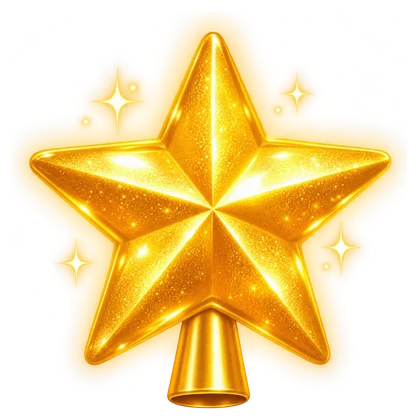
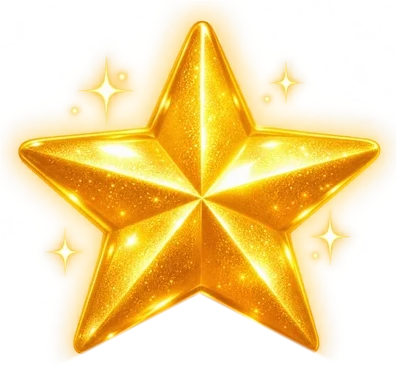
Адвент: общее окно подарков, подсказки на коробках, звезда без подставки, лес — одна луна и без сугробов
Claude-Session: https://claude.ai/code/session_019ncVXnayy72i3ajtvMMQrc

diff --git a/builds/advent/kabinet.html b/builds/advent/kabinet.html
@@ -347,13 +347,15 @@ img.pic{width:100%;height:100%;object-fit:contain;display:block;pointer-events:n
 .spk{position:absolute;color:#fff;font-size:11px;pointer-events:none;animation:wtwk 1.8s ease-in-out infinite;text-shadow:0 0 6px currentColor;font-style:normal}
 .t-l .spk{color:#FFE9A0}.t-e .spk{color:#F0D6FF}
 @keyframes wtwk{0%,100%{opacity:0;transform:scale(.4)}50%{opacity:1;transform:scale(1.15)}}
-.wtip{position:absolute;left:50%;bottom:calc(100% + 6px);transform:translateX(-50%);width:210px;background:#FFF8EC;color:var(--ink);border-radius:16px;padding:11px 13px;box-shadow:0 12px 30px rgba(0,0,0,.35);font-size:13px;line-height:1.4;z-index:40;text-align:left;visibility:hidden;opacity:0;transition:opacity .15s,visibility 0s .4s;cursor:default}
-.wtip::before{content:"";position:absolute;left:-10px;right:-10px;top:100%;height:18px}
+.wtip{position:absolute;left:50%;bottom:calc(100% + 6px);transform:translateX(-50%);width:210px;background:#FFF8EC;color:var(--ink);border-radius:16px;padding:11px 13px;box-shadow:0 12px 30px rgba(0,0,0,.35);font-size:13px;line-height:1.4;z-index:40;text-align:left;visibility:hidden;opacity:0;transition:opacity .12s,visibility 0s .12s;pointer-events:none}
+.wt.down .wtip{bottom:auto;top:calc(100% + 6px)}.wt.down .wtip::after{top:auto;bottom:100%;border-top-color:transparent;border-bottom-color:#FFF8EC}
+.wtip .hint2{display:block;margin-top:6px;font-weight:800;font-size:12px;color:#9C5E36}
 .wtip::after{content:"";position:absolute;left:50%;top:100%;transform:translateX(-50%);border:8px solid transparent;border-top-color:#FFF8EC}
 .wtip b{font-family:var(--ff-head);display:block;font-size:14px;margin-bottom:3px}
 .wtip .more{margin-top:8px;font-family:var(--ff-head);font-weight:800;font-size:12px;border:0;border-radius:10px;padding:7px 11px;color:#fff;cursor:pointer}
-.wt.m:hover .wtip,.wt.m.open .wtip,.wt.m:focus-within .wtip{visibility:visible;opacity:1;transition-delay:0s}
-.wt.m:hover,.wt.m.open,.wt.m:focus-within{z-index:30}
+.wt.m{pointer-events:none}.wt.m .bx{pointer-events:auto}
+.wt.m:hover .wtip,.wt.m:focus-visible .wtip{visibility:visible;opacity:1;transition:opacity .15s .3s,visibility 0s .3s}
+.wt.m:hover,.wt.m:focus-visible{z-index:30}
 .wt.edge-l .wtip{left:0;transform:none}.wt.edge-l .wtip::after{left:28px}
 .wt.edge-r .wtip{left:auto;right:0;transform:none}.wt.edge-r .wtip::after{left:auto;right:20px}
 .wtrees{display:flex;gap:6px;flex-wrap:wrap;align-items:center;padding:8px 12px;background:rgba(0,0,0,.22);flex:none}
@@ -418,6 +420,27 @@ img.pic{width:100%;height:100%;object-fit:contain;display:block;pointer-events:n
 @keyframes conf{0%{transform:translate(0,0) rotate(0);opacity:1}100%{transform:translate(var(--dx),var(--dy)) rotate(var(--rot));opacity:0}}
 .fx .flash{position:absolute;width:260px;height:260px;border-radius:50%;transform:translate(-50%,-50%) scale(.2);background:radial-gradient(circle,#fffbe0,rgba(255,220,120,.6) 35%,transparent 70%);animation:flash .7s ease-out forwards}
 @keyframes flash{to{transform:translate(-50%,-50%) scale(2.4);opacity:0}}
+@keyframes spin{to{transform:translate(-50%,-50%) rotate(360deg)}}
+.mcard.combo{max-width:min(760px,calc(100vw - 32px));background:radial-gradient(circle at 50% 20%,#3a2a7a,#1C2456);color:#fff}
+.combo .cv{align-self:flex-end;font-size:11px;color:#C9CFF0;display:flex;gap:4px;align-items:center}
+.combo .cv button{font:inherit;font-weight:800;border:0;border-radius:999px;padding:3px 9px;background:rgba(255,255,255,.14);color:#fff;cursor:pointer}.combo .cv button.on{background:#FFD45A;color:#4A2E00}
+.combo .cards{display:flex;gap:12px;justify-content:center;flex-wrap:wrap;width:100%}
+.combo .cc{position:relative;overflow:hidden;isolation:isolate;flex:1 1 180px;max-width:220px;border-radius:20px;padding:14px 10px 12px;display:flex;flex-direction:column;align-items:center;gap:5px;animation:pop .45s cubic-bezier(.2,1.5,.4,1) backwards}
+.combo .cc:nth-child(2){animation-delay:.15s}.combo .cc:nth-child(3){animation-delay:.3s}.combo .cc:nth-child(4){animation-delay:.45s}
+.combo .cc .ray{position:absolute;left:50%;top:40%;width:280px;height:280px;transform:translate(-50%,-50%);border-radius:50%;z-index:-1;background:repeating-conic-gradient(rgba(255,255,255,.16) 0 10deg,transparent 10deg 22deg);-webkit-mask:radial-gradient(circle,#000 20%,transparent 65%);mask:radial-gradient(circle,#000 20%,transparent 65%);animation:spin 10s linear infinite}
+.combo .cc .tag{font-family:var(--ff-head);font-weight:900;font-size:10px;letter-spacing:.05em;text-transform:uppercase;border-radius:999px;padding:3px 9px;background:rgba(255,255,255,.85);color:#1C2456}
+.combo .ci{width:110px;height:110px;object-fit:contain;filter:drop-shadow(0 6px 6px rgba(0,0,0,.35))}.combo .ci.emo{display:grid;place-items:center;font-size:70px}
+.combo .cc b{font-family:var(--ff-head);font-size:16px}.combo .cc small{font-size:12px;opacity:.85}
+.combo .csay{border:0;border-radius:999px;background:rgba(255,255,255,.18);color:#fff;padding:3px 10px;cursor:pointer;font-size:14px}
+.combo .k-w{background:linear-gradient(180deg,#2E7D5B,#1B4F3A)}.combo .k-g{background:linear-gradient(180deg,#C8364D,#7E1B2E)}.combo .k-c{background:linear-gradient(180deg,#C9921E,#7A5200)}
+.combo .k-r{background:linear-gradient(180deg,#2E6FD6,#173D85)}.combo .k-e{background:linear-gradient(180deg,#8E3FD6,#4A1A85)}.combo .k-l{background:linear-gradient(180deg,#E39A10,#8A5A00)}
+.combo .cbig img{width:150px;filter:drop-shadow(0 8px 8px rgba(0,0,0,.35))}
+.combo .chips{display:flex;gap:10px;flex-wrap:wrap;justify-content:center}
+.combo .chip{display:flex;align-items:center;gap:10px;border-radius:16px;padding:7px 14px 7px 7px;text-align:left;animation:pop .45s cubic-bezier(.2,1.5,.4,1) .2s backwards}
+.combo .chip img{width:52px;height:52px;object-fit:contain}.combo .chip .ce{font-size:36px;width:52px;text-align:center}
+.combo .chip b{display:block;font-family:var(--ff-head);font-size:14px}.combo .chip small{font-size:11px;opacity:.85}
+.combo .promo{font-family:var(--ff-head);font-weight:900;background:#fff;color:#C8364D;border-radius:8px;padding:2px 8px;margin-top:2px;display:inline-block}
+@media (max-width:600px){.combo .cc{flex-basis:100%;max-width:none;flex-direction:row;text-align:left;gap:10px}.combo .ci{width:64px;height:64px}.combo .ci.emo{font-size:44px}}
 .mcard.rev{background:radial-gradient(circle at 50% 30%,#3a2a7a,#1C2456);color:#fff;overflow:hidden;position:relative;isolation:isolate}
 .mcard.rev .eb{color:#FFE9A0}.mcard.rev .trn,.mcard.rev .hint{color:#D8DCFF}
 .mcard.rev .art{position:relative}
@@ -803,10 +826,8 @@ function openDay(d,b){
     save();renderNav();renderAdvent();showCoins(bonus);
     var eb=it.tree?'Новая ёлка!':d===N||nOpened()===N?'Последнее окошко! С Новым годом!':ev.newCol?'Новый цвет — в подарок!':'Новое украшение!';
     var hint=it.tree?'Ёлка поменялась — посмотри!':F[it.f].top?'Это украшение для макушки ёлки — поставь его наверх.':F[it.f].wide?'Сразу три куска: маленький, средний и большой — все на полке мастерской.':'Оно уже на полке мастерской 🧝 — тяни его на ёлку.';
-    var q=[function(){return wordModal(it,{eb:eb,hint:hint,fin:nOpened()===N});}];
-    if(ev.gift)q.push(function(){return giftModal(ev.gift);});
-    ev.rew.forEach(function(rw){q.push(function(){return rewardModal(rw);});});
-    chain(q);
+    if(ev.gift||ev.rew.length){comboModal(it,ev,{eb:eb,hint:hint,fin:nOpened()===N});return;}
+    wordModal(it,{eb:eb,hint:hint,fin:nOpened()===N});
   },350);
 }
 function giftModal(g){sfx('gift');
@@ -819,6 +840,28 @@ function rewardModal(rw){
   sfx('coin');var m2=modal('<div class="mcard rev '+(rw.cert?'l':'g')+'"><span class="rib">Шкала подарков</span><div class="art" style="display:grid;place-items:center;font-size:90px">'+(rw.cert?'🎓':'🪙')+'</div><h3 style="color:#fff">'+rw.n+' открытых окошек!</h3>'+
     (rw.cert?'<div class="trn">Грамота «Знаток новогодних слов» — все 31 слово твои!</div>':'')+'<div class="word" style="color:#FFE9A0">+🪙 '+rw.a+'</div><div class="btns"><button type="button" class="btn pink" data-close>Забрать</button></div></div>');
   confetti(window.innerWidth/2,window.innerHeight/2,rw.cert?'l':'g');return m2;}
+/* всё, что выпало в одном окошке, — одним окном, карточками рядом (Анна 24.11.2026, «207 вариант 1») */
+var COMBO_V='1';
+function comboModal(it,ev,o){
+  var items=[{k:'w',tag:'Окошко',img:dayImg(it),t:dayEn(it),s:dayRu(it),say:dayEn(it)}];
+  if(ev.gift)items.push({k:'g',tag:'Подарок от школы',img:'img/gift3.webp',t:ev.gift.ic+' '+ev.gift.t,s:ev.gift.s,promo:ev.gift.promo});
+  ev.rew.forEach(function(rw){if(rw.f){var c=rar(rw.f);items.push({k:c,tag:'Шкала: '+rw.n+' окошек · '+{r:'редкая',e:'эпическая',l:'легендарная'}[c],img:src(rw.f,''),t:F[rw.f].w,s:F[rw.f].t,say:F[rw.f].w});}
+    else items.push({k:'c',tag:'Шкала: '+rw.n+' окошек',emo:rw.cert?'🎓':'🪙',t:'+🪙 '+rw.a,s:rw.cert?'Грамота «Знаток новогодних слов»':'монетки в копилку'});});
+  var m=modal('<div class="mcard combo"></div>');var box=m.querySelector('.combo');
+  function draw(){
+    var sw='';
+    var h=sw+'<div class="eb" style="color:#FFE9A0">'+(o.eb||'')+'</div>';
+    if(COMBO_V==='1'){h+='<div class="cards">'+items.map(function(x){return '<div class="cc k-'+x.k+'"><span class="ray"></span><span class="tag">'+esc(x.tag)+'</span>'+(x.emo?'<div class="ci emo">'+x.emo+'</div>':'<img class="ci" src="'+x.img+'" alt="">')+'<b>'+esc(x.t)+'</b><small>'+esc(x.s)+'</small>'+(x.say?'<button type="button" class="csay" data-w="'+esc(x.say)+'">🔊</button>':'')+(x.promo?'<span class="promo">'+x.promo+'</span>':'')+'</div>';}).join('')+'</div>';}
+    else{var a=items[0];h+='<div class="cbig"><img src="'+a.img+'" alt=""><div class="word" style="color:#fff">'+esc(a.t)+' <button type="button" class="csay" data-w="'+esc(a.say)+'">🔊</button></div><div class="trn">'+esc(a.s)+'</div></div><div class="hint">А ещё сегодня:</div><div class="chips">'+
+      items.slice(1).map(function(x){return '<div class="chip k-'+x.k+'">'+(x.emo?'<span class="ce">'+x.emo+'</span>':'<img src="'+x.img+'" alt="">')+'<span><b>'+esc(x.t)+'</b><small>'+esc(x.tag)+'</small>'+(x.promo?'<span class="promo">'+x.promo+'</span>':'')+'</span></div>';}).join('')+'</div>';}
+    h+='<div class="hint">'+(ev.gift?'Подарок от школы лежит в блоке «Мои подарки» под календарём. ':'')+'Игрушки уже на полке мастерской.</div><div class="btns"><button type="button" class="btn pink" id="toTree">Ура! К ёлке 🎄</button><button type="button" class="btn ghost" data-close>Закрыть</button></div>';
+    box.innerHTML=h;
+    box.querySelectorAll('.cv button').forEach(function(b){b.onclick=function(){COMBO_V=b.dataset.v;draw();};});
+    box.querySelectorAll('.csay').forEach(function(b){b.onclick=function(){say(b.dataset.w);};});
+    box.querySelector('#toTree').onclick=function(){m.remove();S.page='advent';S.tab='tree';save();render();};}
+  draw();sfx(ev.gift?'gift':'rare');if(o.fin)say(dayEn(it),'Merry Christmas!');else say(dayEn(it));
+  setTimeout(function(){confetti(window.innerWidth/2,window.innerHeight/2,'g');},300);
+  if(S.page==='advent'&&S.tab==='tree')renderTree();return m;}
 /* карточка слова: послушать, повторить за голосом и послушать себя рядом с образцом */
 function wordModal(it,o){
   var m=modal('<div class="mcard" role="dialog">'+(o.eb?'<div class="eb">'+o.eb+'</div>':'')+'<div class="art">'+pic(dayImg(it))+'</div>'+
@@ -870,7 +913,7 @@ function spk(c){if(c!=='e'&&c!=='l')return '';var s='',P=[[6,16],[80,8],[86,62],
 function shelfToy(f){
   var c=rar(f),hf=hasFam(f);
   if(hf){var col=pickOf(f);return '<div class="wt slot'+(c!=='c'?' t-'+c:'')+(openFam===f?' s-open':'')+'" data-f="'+f+'" tabindex="0" role="button" title="'+esc(en(f,col))+'" aria-label="'+esc(en(f,col))+'">'+spk(c)+pic(src(f,col))+'<span class="ok">'+placedOf(f)+'/'+cntOf(f)+'</span></div>';}
-  return '<div class="wt m'+(c!=='c'?' t-'+c:'')+'" tabindex="0" data-lock="'+c+'">'+spk(c)+'<div class="wtip"><b>'+TIPS[c][0]+'</b>'+TIPS[c][1]+'<br><button class="more" type="button" data-c="'+c+'" style="background:'+TIPS[c][2]+'">Подробнее об условиях</button></div>'+pic('img/box_'+{c:'common',r:'rare',e:'epic',l:'legend'}[c]+'.webp').replace('class="pic"','class="pic bx"')+'</div>';
+  return '<div class="wt m'+(c!=='c'?' t-'+c:'')+'" tabindex="0" data-lock="'+c+'">'+spk(c)+'<div class="wtip"><b>'+TIPS[c][0]+'</b>'+TIPS[c][1]+'<span class="hint2">👆 Нажми на коробку — подробнее</span></div>'+pic('img/box_'+{c:'common',r:'rare',e:'epic',l:'legend'}[c]+'.webp').replace('class="pic"','class="pic bx"')+'</div>';
 }
 function shelf(cls,title,list,inCase){var own=list.filter(hasFam).length;
   var row='<div class="wrow">'+list.map(shelfToy).join('')+'</div>';
@@ -905,7 +948,9 @@ function renderTree(){
       tap:function(){openPanel(f);say(en(f,pickOf(f)));},drop:function(x,y){placeAt(f,pickOf(f),x,y);}});
     sl.onkeydown=function(e){if(e.key==='Enter'||e.key===' '){e.preventDefault();openPanel(f);}};});
   $$('.wt.m').forEach(function(t){var r=t.getBoundingClientRect(),R=$('room').getBoundingClientRect();if(r.left-R.left<110)t.classList.add('edge-l');else if(R.right-r.right<110)t.classList.add('edge-r');
-    t.onclick=function(e){if(e.target.closest('.more'))return;$$('.wt.m.open').forEach(function(x){if(x!==t)x.classList.remove('open');});t.classList.toggle('open');};});
+    t.onclick=function(){moreModal(t.dataset.lock);};
+    /* у верхнего края полок подсказка открывается вниз, иначе её обрезает */
+    t.addEventListener('pointerenter',function(){var sc=t.parentNode;while(sc&&sc!==document.body&&getComputedStyle(sc).overflowY==='visible')sc=sc.parentNode;var top=sc&&sc.getBoundingClientRect?sc.getBoundingClientRect().top:0;t.classList.toggle('down',t.getBoundingClientRect().top-top<120);},true);t.onkeydown=function(e){if(e.key==='Enter'||e.key===' '){e.preventDefault();moreModal(t.dataset.lock);}};});
   $$('.wt .more').forEach(function(b){b.onclick=function(e){e.stopPropagation();moreModal(b.dataset.c);};});
   if(openFam)openPanel(openFam,true);
   drawSel();

diff --git a/builds/advent/les.html b/builds/advent/les.html
@@ -20,7 +20,7 @@ body{background:#0B1236;color:#fff;font-family:var(--fb);margin:0;overflow:hidde
 .scroller{position:absolute;inset:0;overflow-x:auto;overflow-y:hidden;scrollbar-width:none;cursor:grab;touch-action:pan-x}
 .scroller::-webkit-scrollbar{display:none}
 .scroller.drag{cursor:grabbing}
-.world{position:relative;height:100%;background:url(img/les_tile.webp) left bottom/auto 100% repeat-x}
+.world{position:relative;height:100%;background:url(img/les_tile_nomoon.webp) left bottom/auto 100% repeat-x}
 .t{position:absolute;bottom:13%;transform:translateX(-50%);display:flex;flex-direction:column;align-items:center;cursor:pointer;z-index:3}
 .t .art{position:relative;transition:transform .25s;transform-origin:50% 100%}
 .t:hover .art{transform:scale(1.05)}
@@ -38,7 +38,7 @@ body{background:#0B1236;color:#fff;font-family:var(--fb);margin:0;overflow:hidde
 .t.me .art::before{content:"";position:absolute;inset:-14% -26% -4%;background:radial-gradient(ellipse,rgba(255,212,90,.55),transparent 65%);animation:mg 1.8s ease-in-out infinite;z-index:-1}
 @keyframes mg{50%{opacity:.45}}
 .t.me .nm{background:var(--gold);color:#4A2E00}
-.t.me .you{position:absolute;bottom:101%;font-family:var(--fh);font-weight:900;font-size:12px;background:#fff;color:#4A2E00;border-radius:999px;padding:3px 10px;white-space:nowrap;box-shadow:0 3px 8px rgba(0,0,0,.3)}
+.t.me .you{position:absolute;bottom:110%;z-index:5;font-family:var(--fh);font-weight:900;font-size:12px;background:#fff;color:#4A2E00;border-radius:999px;padding:3px 10px;white-space:nowrap;box-shadow:0 3px 8px rgba(0,0,0,.3)}
 .t.hl .art{animation:hl .55s ease-in-out 4}
 @keyframes hl{50%{transform:translateY(-14px) scale(1.06)}}
 .main{position:absolute;bottom:12%;transform:translateX(-50%);pointer-events:none;z-index:2}
@@ -48,6 +48,7 @@ body{background:#0B1236;color:#fff;font-family:var(--fb);margin:0;overflow:hidde
 .sign .p{width:8px;height:50px;background:#6A3A1F;margin:0 auto}
 .anim{position:absolute;pointer-events:none;width:0;height:0}
 .anim img{position:absolute;bottom:0;left:0;transform:translateX(-50%);display:block;filter:drop-shadow(0 6px 4px rgba(0,0,0,.25))}
+#moon{position:absolute;right:9%;top:5%;width:min(120px,14vw);z-index:1;pointer-events:none}
 canvas.snow{position:absolute;inset:0;pointer-events:none;z-index:10}
 .nav{position:absolute;top:50%;transform:translateY(-50%);z-index:20;width:46px;height:46px;border-radius:50%;border:0;background:rgba(10,16,52,.6);color:#fff;font-size:20px;cursor:pointer;backdrop-filter:blur(4px)}
 .nav.l{left:max(12px,env(safe-area-inset-left,0px))}.nav.r{right:max(12px,env(safe-area-inset-right,0px))}
@@ -71,6 +72,7 @@ canvas.snow{position:absolute;inset:0;pointer-events:none;z-index:10}
 <div class="hdr"><button class="back" type="button">← К моей ёлке</button><h1>Лес ёлок WowSpeak</h1><span class="cnt">🎄 <span id="n"></span> ёлок в лесу</span>
 <span class="find"><input id="q" placeholder="Найти ёлку друга" aria-label="Найти ёлку по имени"></span><button class="mine" type="button" id="toMe">⭐ Моя ёлка</button></div>
 <div class="scene" id="scene">
+ <img id="moon" src="img/moon.webp" alt="">
  <div class="scroller" id="sc"><div class="world" id="world"></div></div>
  <canvas class="snow" id="snow"></canvas>
  <button class="nav l" type="button" id="pl" aria-label="Влево">‹</button><button class="nav r" type="button" id="pr" aria-label="Вправо">›</button>
@@ -91,14 +93,14 @@ var H,W,sc=document.getElementById('sc');
 function tree(kid,x,sz){var me=kid.me,tr=me?'tree_pine':TR[rnd()<.6?0:(rnd()<.6?1:2)],n=me?7:Math.min(8,Math.max(1,Math.round(kid.open/2.5))),o='';
  var sp=SP.slice().sort(function(){return rnd()-.5;});
  for(var k=0;k<n;k++){var s=sp[k];o+='<img class="o" src="img/'+OR[Math.floor(rnd()*OR.length)]+'.webp" style="left:'+s[0]+'%;top:'+s[1]+'%;width:'+(13+rnd()*5)+'%" alt="">';}
- if(me||kid.open>=3)o+='<img class="o" src="img/top_star.webp" style="left:50%;top:6%;width:20%" alt="">';
+ if(me||kid.open>=3)o+='<img class="o" src="img/top_star.webp" style="left:50%;top:-1%;width:22%" alt="">';
  var w=sz*(.86+rnd()*.28);
- return '<div class="t'+(me?' me':'')+'" data-n="'+kid.nm+'" style="left:'+x.toFixed(0)+'px;width:'+w.toFixed(0)+'px">'+(me?'<span class="you">Это ты!</span>':'')+'<div class="art"><img class="tr" src="img/'+tr+'.webp" alt=""><img class="drift" src="img/drift2.webp" alt="">'+o+'</div><div class="lab"><span class="nm">'+kid.nm+'</span></div></div>';}
+ return '<div class="t'+(me?' me':'')+'" data-n="'+kid.nm+'" style="left:'+x.toFixed(0)+'px;width:'+w.toFixed(0)+'px">'+(me?'<span class="you">Это ты!</span>':'')+'<div class="art"><img class="tr" src="img/'+tr+'.webp" alt="">'+o+'</div><div class="lab"><span class="nm">'+kid.nm+'</span></div></div>';}
 function build(){
  seed=11;var world=document.getElementById('world');H=sc.clientHeight;
  var sz=Math.min(H*.36,260),gap=sz*1.15,start=Math.max(sc.clientWidth*.55,sz*2.4);
  W=start+kids.length*gap+sz;world.style.width=W+'px';
- var h='<div class="main" style="left:'+(start*.4)+'px;width:'+(sz*1.9)+'px"><img src="img/tree_pine.webp" alt=""><img src="img/top_star.webp" alt="" style="position:absolute;left:50%;top:-2%;width:22%;transform:translateX(-50%)"></div>'+
+ var h='<div class="main" style="left:'+(start*.4)+'px;width:'+(sz*1.5)+'px"><img src="img/tree_pine.webp" alt=""><img src="img/top_star.webp" alt="" style="position:absolute;left:50%;top:-8%;width:22%;transform:translateX(-50%)"></div>'+
    '<div class="sign" style="left:'+(start*.82)+'px"><div class="b">Лес WowSpeak</div><div class="p"></div></div>';
  var PROPS=['snowman','drift1','sledge','lamp','drift3','snowman','lamp','drift1','sledge'],pk=0;
  kids.forEach(function(kid,j){h+=tree(kid,start+gap*(j+.5)+(rnd()-.5)*gap*.15,sz);
@@ -163,8 +165,8 @@ function peek(){var vw=sc.clientWidth,s=sc.scrollLeft,ts=[].slice.call(document.
  el.innerHTML='<img src="img/an/peek_'+n+'.webp" alt="" style="height:'+h+'px;width:auto;transform:translateX(0) scaleX('+side+');transform-origin:0 100%;left:0">';world.appendChild(el);
  var img=el.firstChild,out=side*tw*.32,hid=-side*h*.15;
  img.animate([{transform:'translateX('+hid+'px) scaleX('+side+')'},{transform:'translateX('+out+'px) scaleX('+side+')',offset:.18},{transform:'translateX('+out+'px) rotate('+(side*4)+'deg) scaleX('+side+')',offset:.5},{transform:'translateX('+out+'px) scaleX('+side+')',offset:.82},{transform:'translateX('+hid+'px) scaleX('+side+')'}],{duration:4600,easing:'ease-in-out'}).onfinish=function(){el.remove();};}
-function life(){if(!document.hidden){Math.random()<.6?run():peek();}setTimeout(life,4000+Math.random()*4000);}
-if(!matchMedia('(prefers-reduced-motion: reduce)').matches)setTimeout(life,1500);
+function life(){if(!document.hidden){Math.random()<.6?run():peek();}setTimeout(life,3000+Math.random()*2000);}
+setTimeout(life,300);
 function init(){size();build();}
 window.addEventListener('resize',function(){var s=sc.scrollLeft/W;init();sc.scrollLeft=s*W;});
 init();

diff --git a/builds/advent/plan.md b/builds/advent/plan.md
@@ -131,3 +131,4 @@
 - 24.11: лес — панорама вбок на трёх снежных холмах (дальний/средний/ближний), впереди те, кто открыл больше окошек; своя ёлка всегда в ближнем ряду; главная ёлка школы и табличка в начале; мини-карта, стрелки, поиск, «Моя ёлка»; лес растёт в длину. Зверьков убрали — ждём анимированных (кадры от Анны).
 - 24.11: лес — один ряд ёлок на повторяющемся фоне, сугробы у ёлок, снег в три слоя; звёздочек нет (Анна: будет обидно детям); у своей ёлки «Продолжить украшать». Фон и выглядывающих зверьков генерирует Анна.
 - 24.11: зверьки в лесу — по две позы (сидит/прыжок, картинки Анны), прыжок по дуге собирается кодом; пробегают за ёлками и перед ними, выглядывают из-за ёлок. Гифки не нужны.
+- 24.11: 209 — звезда без подставки (и в лесу, и в кабинете). 207 — всё, что выпало в окошке, одним окном карточками рядом. 203 — в лесу без сугробов у ёлок; луна одна, неподвижная. 205 — зверьки сразу и каждые 3–5 с. Подсказка на коробках: появляется только над коробкой, не ловит мышь, у верхнего края открывается вниз; «подробнее» — нажатием на коробку.
